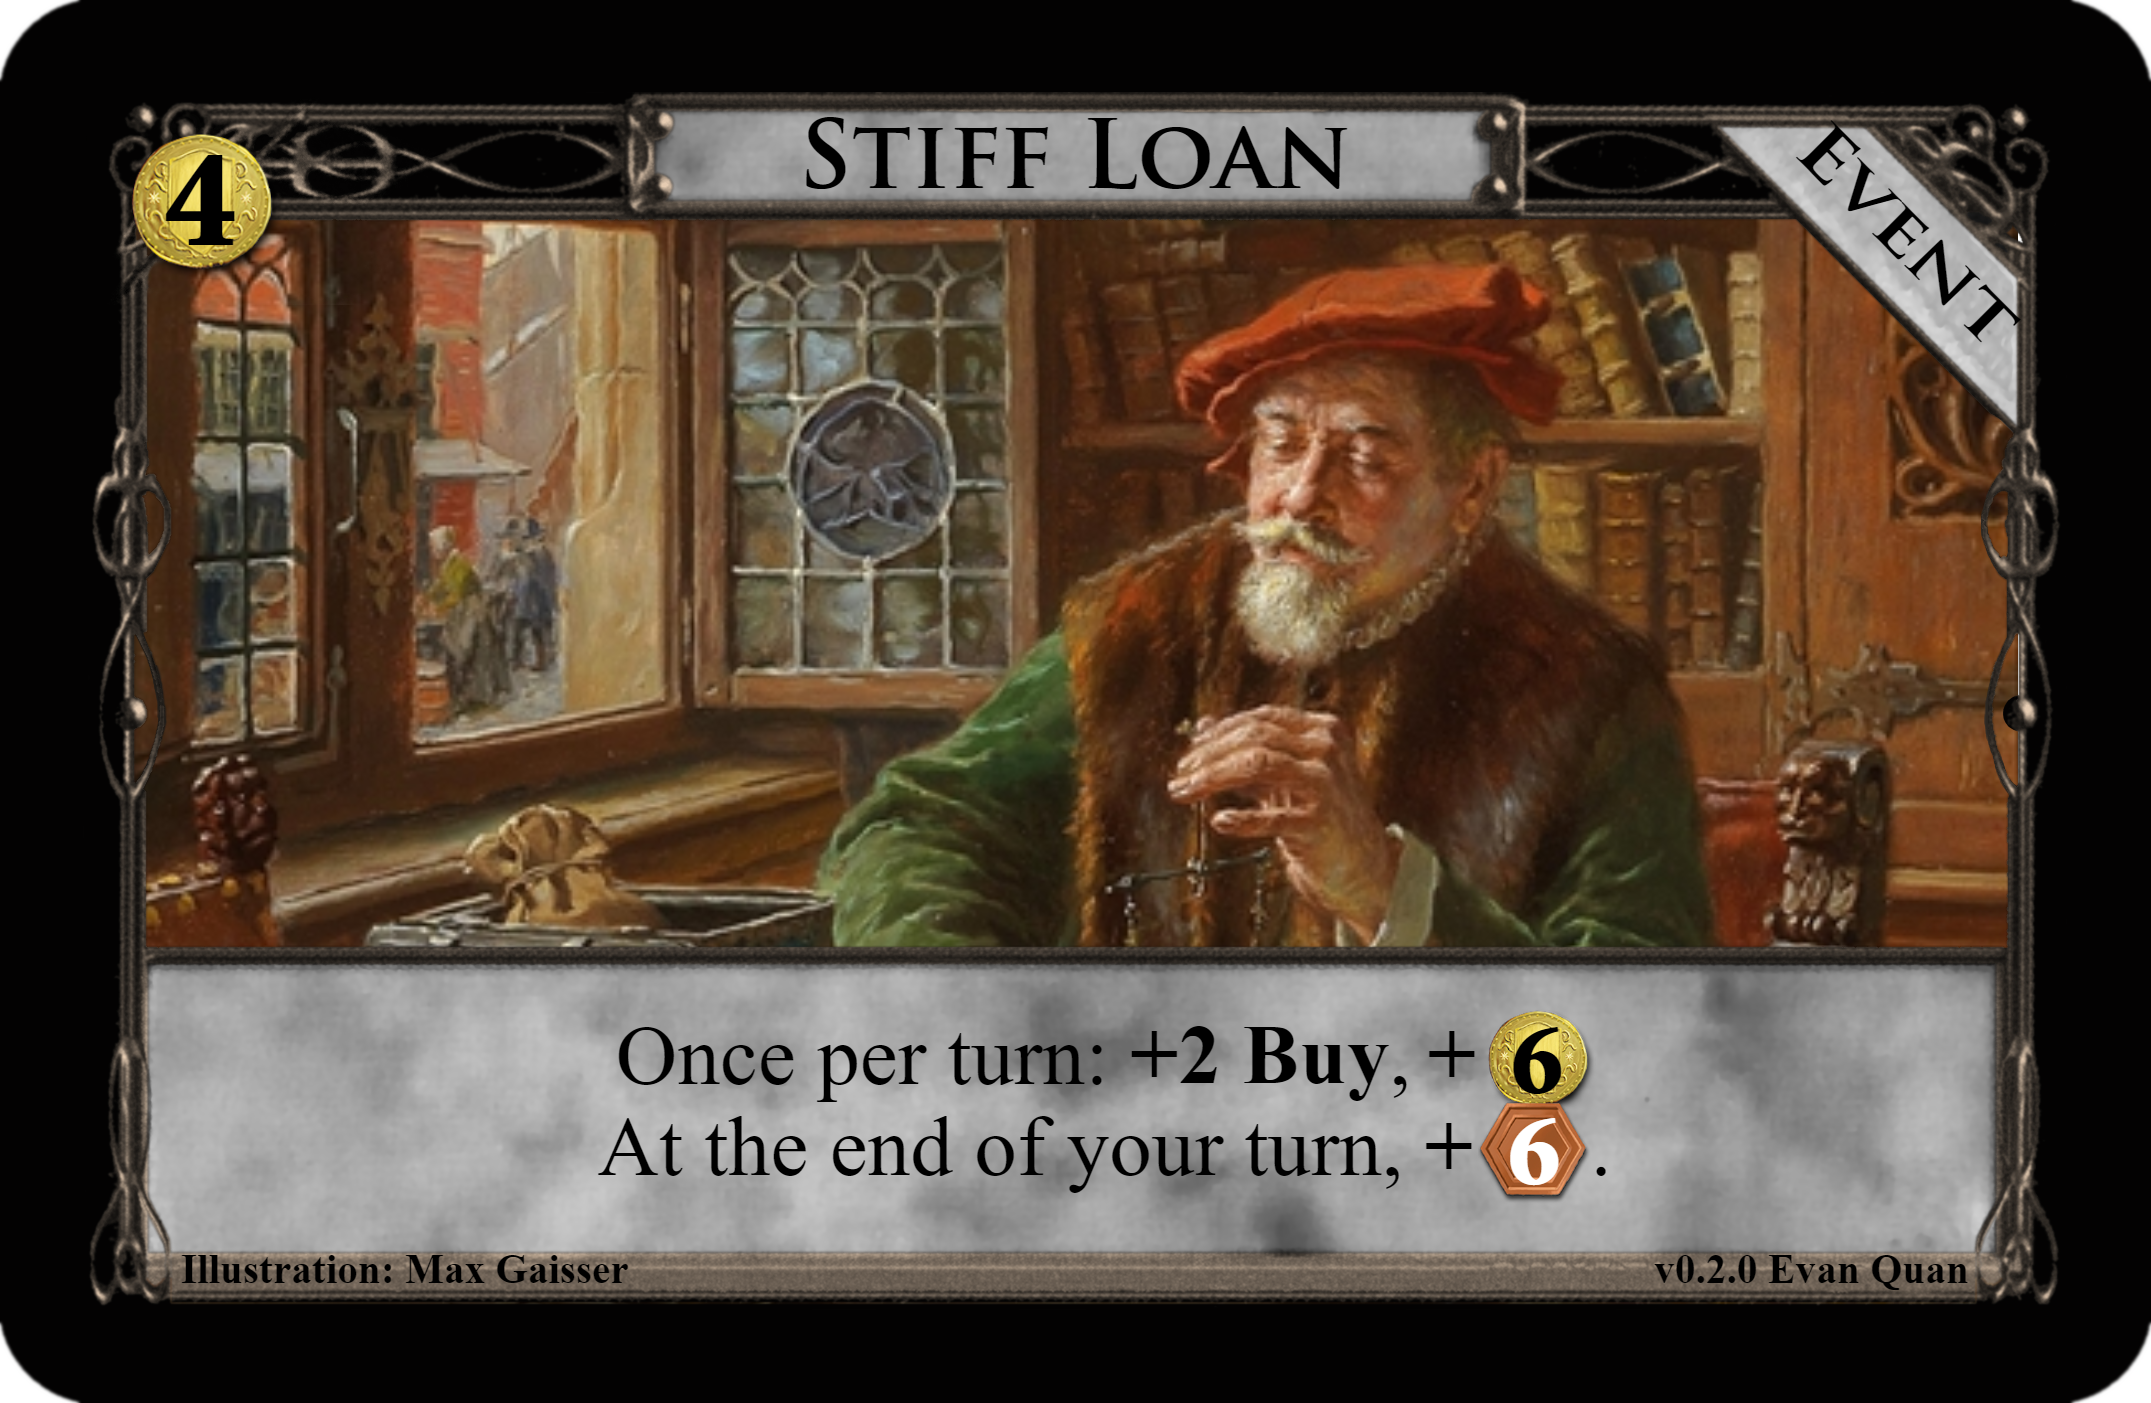
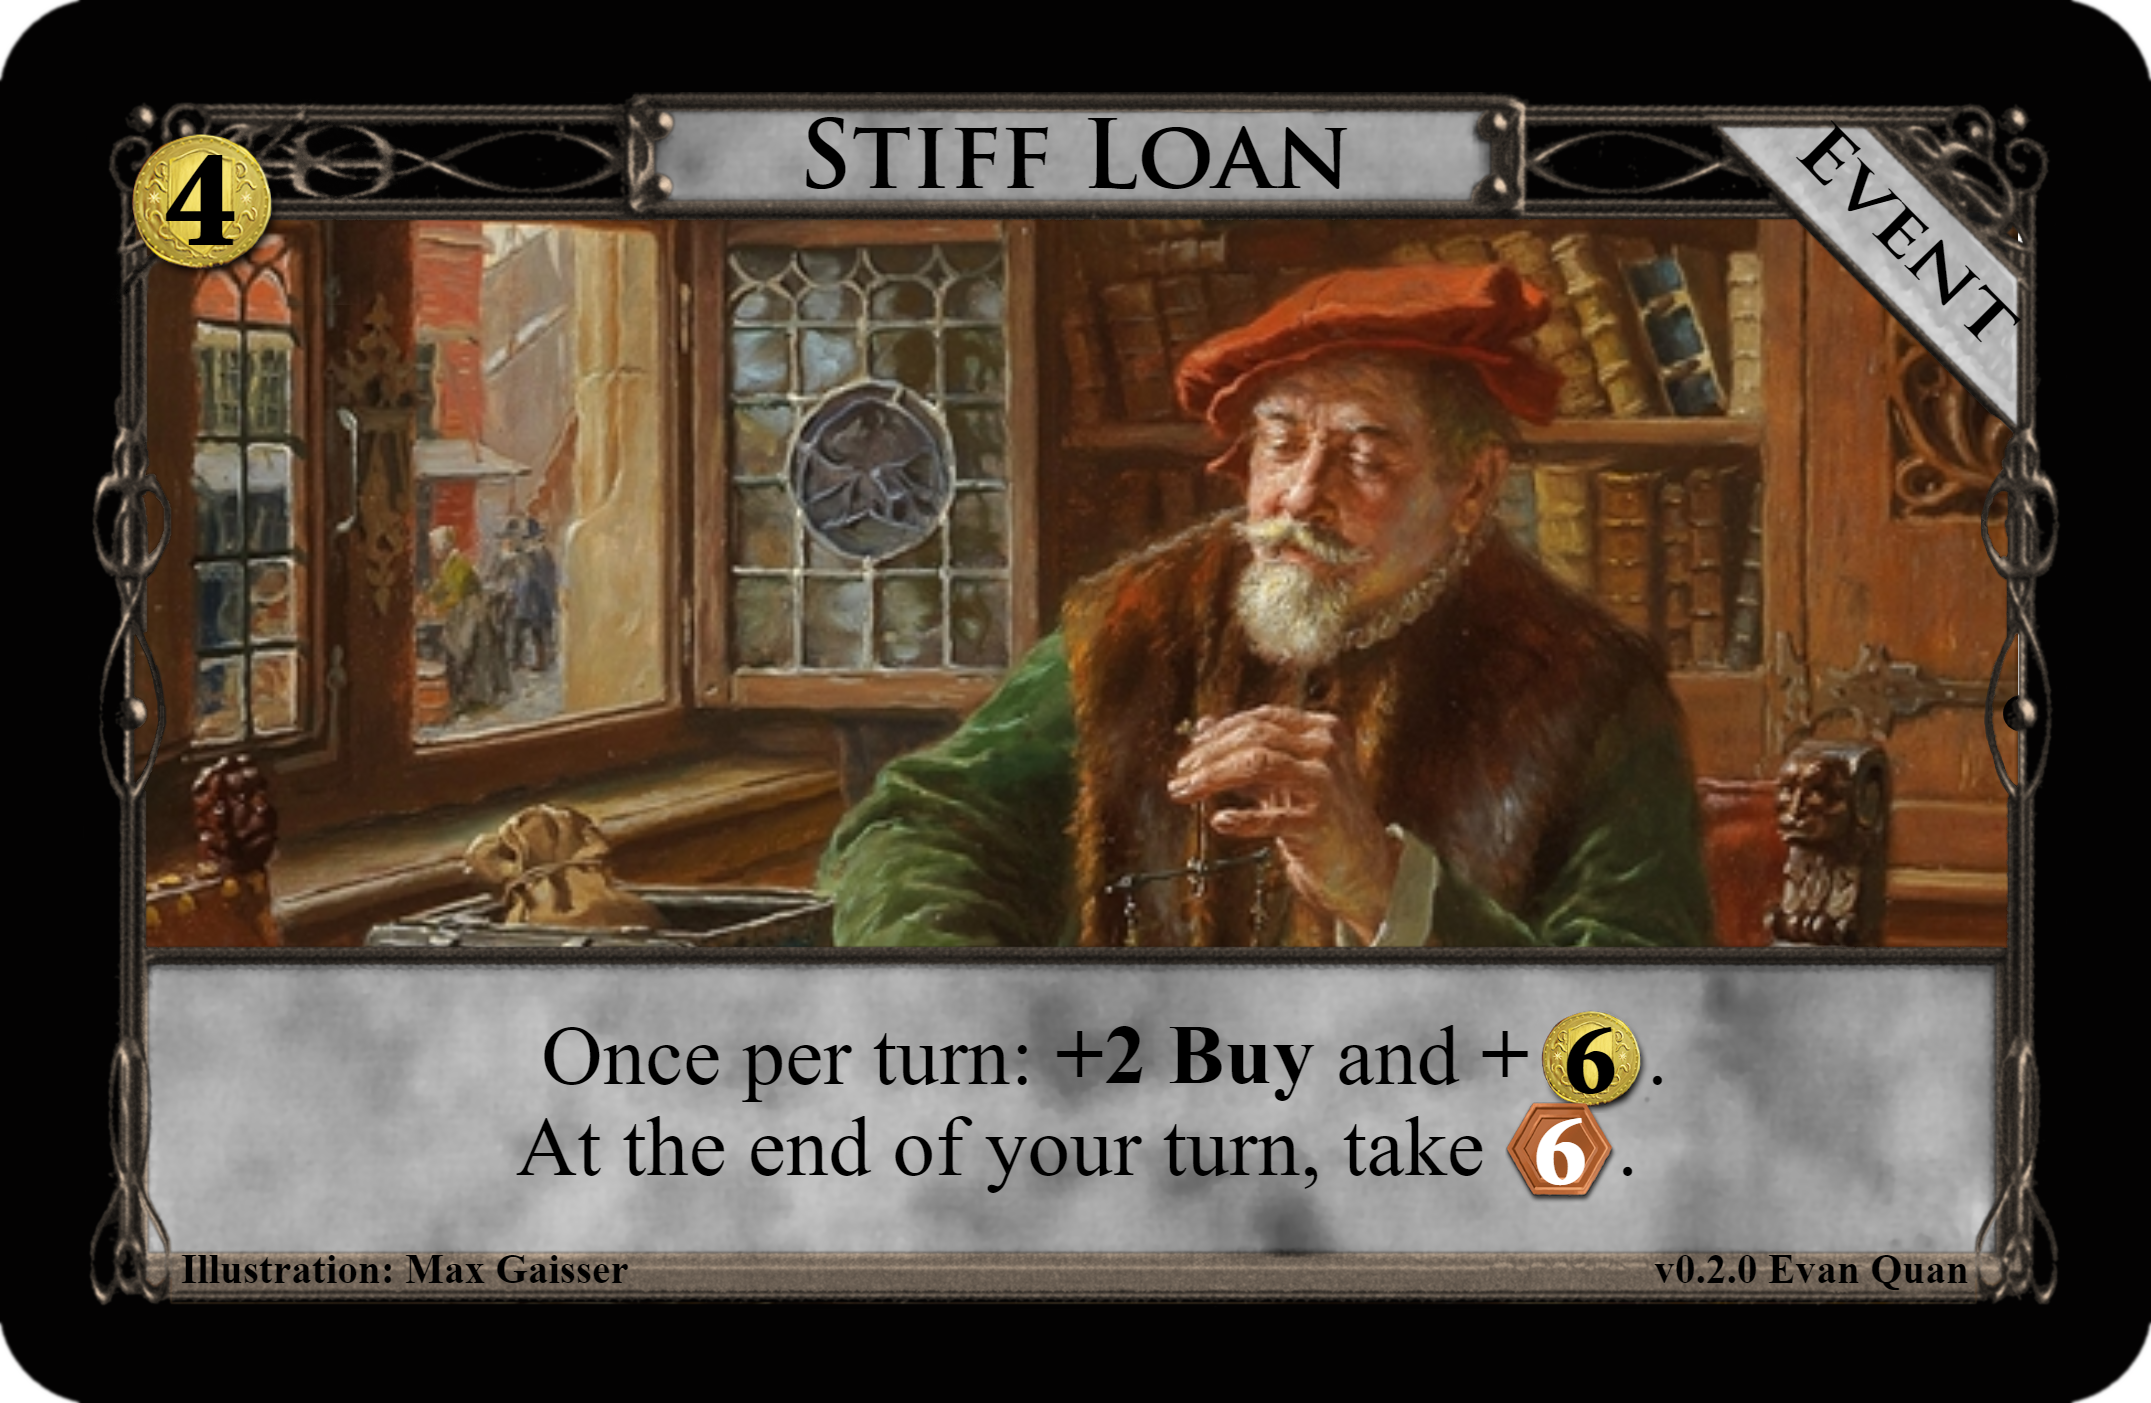
Update phrasing. Add credits.

Changed region(s): [[0.2492, 0.7049, 0.7787, 0.8582]]

diff --git a/Event/StiffLoan.md b/Event/StiffLoan.md
@@ -2,6 +2,16 @@
 
 ![v0.2.0][^v0.2.0]
 
+---
+
+[Card][^Card]
+
+[Illustrator][^Illustrator]
+
+[Illustration][^Illustration]
+
+---
+
 ## History
 
 ### v0.2.0
@@ -14,3 +24,6 @@
 
 [^v0.1.0]: /Event/Images/Stiff_Loan_v0.1.png
 [^v0.2.0]: /Event/Images/Stiff_Loan_v0.2.0.png
+[^Card]: https://shardofhonor.github.io/dominion-card-generator/?title=Stiff%20Loan&description=Once%20per%20turn%3A%20%2B2%20Buy%20and%20%2B%246.%0AAt%20the%20end%20of%20your%20turn%2C%20take%20%406.&type=Event&credit=Illustration%3A%20Max%20Gaisser&creator=v0.2.0%20Evan%20Quan&price=%244&preview=&type2=&color2split=1&boldkeys=&picture-x=0&picture-y=0.53&picture-zoom=1&picture=https%3A%2F%2Fmedia.mutualart.com%2FImages%2F2016_11%2F16%2F09%2F095435308%2F77234642-65de-4a26-baeb-9bab405ac9a1_570.Jpeg&expansion=&custom-icon=&color0=0&color1=0&size=1
+[^Illustrator]: http://www.artnet.com/artists/max-gaisser/
+[^Illustration]: http://www.artnet.com/artists/max-gaisser/the-money-lender-QSUcX_Qvg2ltgqtGSKknjQ2
